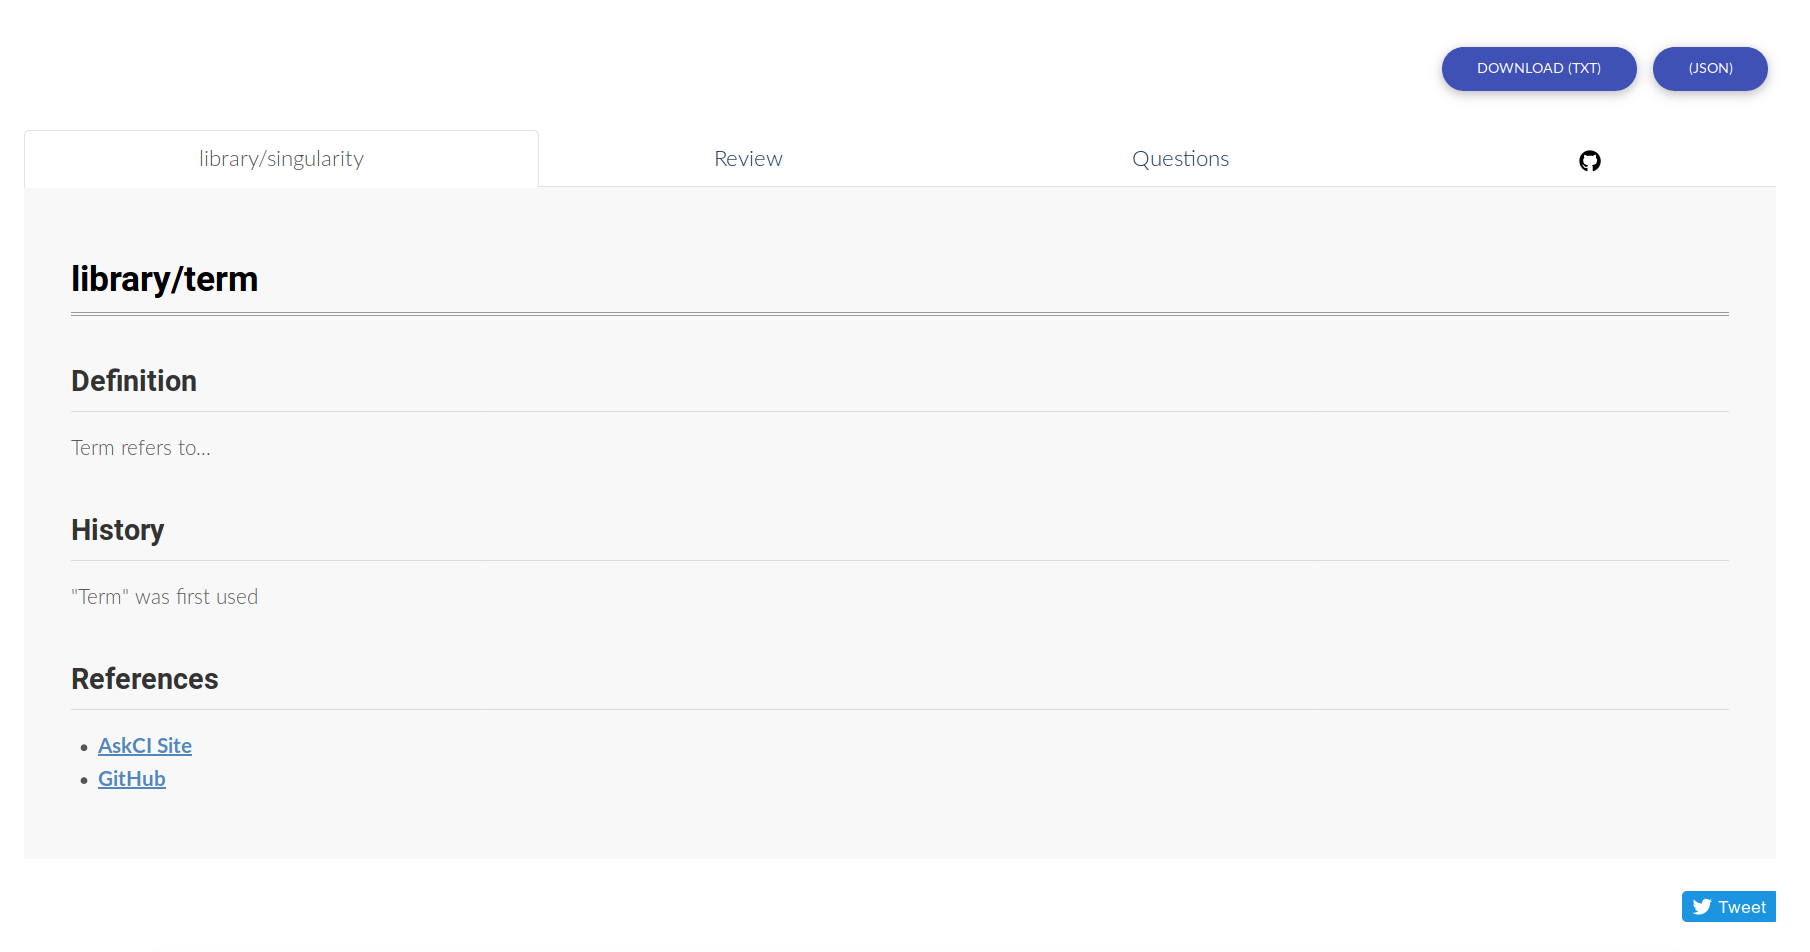
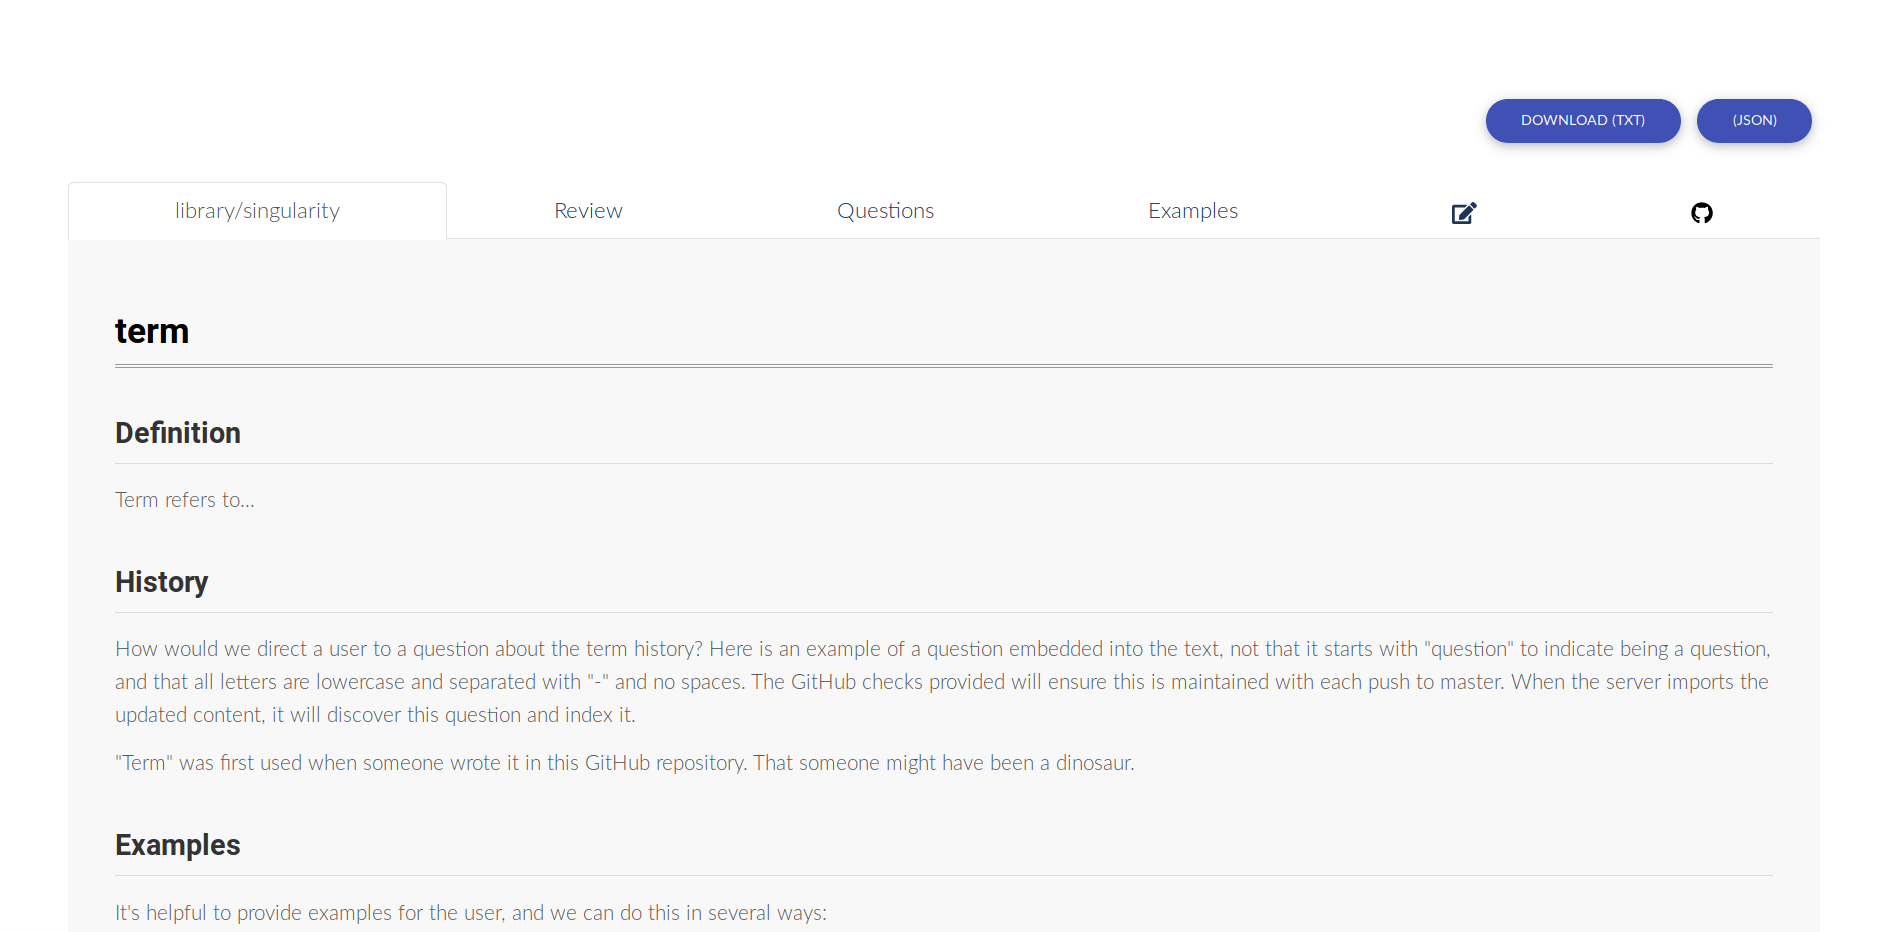
adding examples to model, and rendered in article page

diff --git a/askci/apps/main/templates/articles/article_details.html b/askci/apps/main/templates/articles/article_details.html
@@ -64,6 +64,7 @@ body {
                 <a class="nav-item nav-link active" id="nav-details-tab" data-toggle="tab" href="#nav-details" role="tab" aria-controls="nav-details" aria-selected="true">{{ instance.namespace }}/{{ instance.name }}</a>
                 {% if instance.pullrequest_set.count > 0 %}<a class="nav-item nav-link" id="nav-review-tab" data-toggle="tab" href="#nav-review" role="tab" aria-controls="nav-review" aria-selected="true">Review</a>{% endif %}
                 {% if instance.question_set.count > 0 %}<a class="nav-item nav-link" id="nav-questions-tab" data-toggle="tab" href="#nav-questions" role="tab" aria-controls="nav-questions" aria-selected="true">Questions</a>{% endif %}
+                {% if instance.example_set.count > 0 %}<a class="nav-item nav-link" id="nav-examples-tab" data-toggle="tab" href="#nav-examples" role="tab" aria-controls="nav-examples" aria-selected="true">Examples</a>{% endif %}
                 {% if request.user.has_github_create %}<a class="nav-item nav-link" id="nav-edit-tab" data-toggle="tab" href="#nav-edit" role="tab" aria-controls="nav-edit" aria-selected="true"><i class="fas fa-edit"></i></a>{% endif %}
                 <a class="nav-item nav-link" id="nav-github-tab" target="_blank" href="https://github.com/{{ instance.repo.full_name }}" role="tab" aria-controls="nav-github" aria-selected="true"><i style="color:black" class="fab fa-github"></i></a>
             </div>
@@ -100,6 +101,7 @@ body {
                    </div>
                  </div>{% endfor %}
             </div>{% endif %}
+
             {% if instance.question_set.count > 0 %}
             <div class="tab-pane fade" id="nav-questions" 
                  style="margin-top:20px"
@@ -108,12 +110,28 @@ body {
                    <div class="col-md-12">
                      <div class="card">
                        <div class="card-body">
-                          <strong><a class="question-link" href="#{{ question.text }}"> {{ question.pretty }}</a>
+                          <strong><a class="question-link" href="#{{ question.text }}"> {{ question.pretty }}</a></strong>
                        </div>
                      </div>
                    </div>
                  </div>{% endfor %}
             </div>{% endif %}
+
+            {% if instance.example_set.count > 0 %}
+            <div class="tab-pane fade" id="nav-examples" 
+                 style="margin-top:20px"
+                 role="tabpanel" aria-labelledby="nav-examples-tab">
+                 {% for example in instance.example_set.all %}<div class="row">
+                   <div class="col-md-12">
+                     <div class="card">
+                       <div class="card-body">
+                          <strong><a class="question-link" href="#{{ example.text }}"> {{ example.pretty }}</a></strong>
+                       </div>
+                     </div>
+                   </div>
+                 </div>{% endfor %}
+            </div>{% endif %}
+
         </div>
      </div>
   </div>

diff --git a/askci/apps/main/templates/examples/all.html b/askci/apps/main/templates/examples/all.html
@@ -1,0 +1,62 @@
+{% extends "base/page.html" %}
+{% load staticfiles %}
+{% block content %}
+
+<style type="text/css">
+ .loading {
+   background-color: #515ce6;
+ }
+</style>
+
+<div class="container" style='padding-top:100px'>
+<link rel="stylesheet" href="https://cdnjs.cloudflare.com/ajax/libs/Chart.js/2.8.0/Chart.min.css">
+  {% include "messages/message.html" %}
+
+  <div class="row" style="padding-bottom:50px">
+    <div class="col-md-12">
+      <a href="{% url 'new_article' %}"><button class="btn btn-primary">New Article</button></a>
+      <a href="{% url 'all_articles' %}"><button class="btn btn-primary">Articles</button></a>
+    </div>
+  </div>
+
+  <div class="infinite-container">
+      {% for example in examples %}
+      <div class="row">
+        <div class="col-md-12">
+          <div class="card">
+              <div class="card-body">
+                 <a href="{{ example.article.get_absolute_url }}"><strong>{{ example.article.name }}</strong></a> {{ example.article.summary | truncatechars:200 }} {% if example.article.summary|length > 200 %}...{% endif %}<a style="float:right" href="{{ example.article.get_absolute_url }}">Read more...</a><br><hr>
+                 <code>{{ example.code2html | safe }}</code>
+              </div>
+           </div>
+          </div>
+      </div>{% endfor %}
+  </div>
+
+  {% if examples.has_next %}
+    <a class="infinite-more-link" href="?page={{ questions.next_page_number }}">More</a>
+  {% endif %}
+
+  <div class="loading" style="display: none;">
+    Loading...
+  </div>
+
+</div>
+{% endblock %}
+{% block pagescripts %}
+<script src="{% static 'js/jquery.waypoints.min.js' %}"></script>
+<script src="{% static 'js/infinite.min.js' %}"></script>
+<script>
+$(document).ready(function() {
+ var infinite = new Waypoint.Infinite({
+      element: $('.infinite-container')[0],
+      onBeforePageLoad: function () {
+        $('.loading').show();
+      },
+      onAfterPageLoad: function ($items) {
+        $('.loading').hide();
+      }
+  });
+});
+</script>
+{% endblock %}

diff --git a/askci/apps/base/templates/base/page.html b/askci/apps/base/templates/base/page.html
@@ -31,12 +31,12 @@
           </form>
         <li class="nav-item dropdown">
           <a class="nav-link dropdown-toggle" href="#" id="TermsDropdown" role="button" data-toggle="dropdown" aria-haspopup="true" aria-expanded="false">
-            Articles
+            Browse
         </a>
           <div class="dropdown-menu dropdown-menu-right" aria-labelledby="TermsDropdown">
-            <a class="dropdown-item" href="{% url 'all_articles' %}">Browse</a>
-            <a class="dropdown-item" href="{% url 'new_article' %}">Create</a>
-            <a class="dropdown-item" href="{% url 'search' %}">Search</a>
+            <a class="dropdown-item" href="{% url 'all_articles' %}">Articles</a>
+            <a class="dropdown-item" href="{% url 'index' %}">Questions</a>
+            <a class="dropdown-item" href="{% url 'all_examples' %}">Examples</a>
             <a class="dropdown-item" href="{% url 'export' %}">Export</a>
           </div>
          </li>

diff --git a/askci/apps/main/models.py b/askci/apps/main/models.py
@@ -19,8 +19,10 @@ import time
 
 
 class TemplateRepository(models.Model):
-    """a template repository must be a template, and serves to provide a starter
-       template for creating a documentation file to update the server. The
+    """a template repository serves to provide a starter
+       template for creating a documentation file to update the server. 
+       Note that it isn't actually a GitHub template - we fork it to ensure
+       that the child repository can be updated from the upstream. The
        repository should minimally have a README.md and a testing setup
        to validate tags. See https://github.com/hpsee/askci-template-term.
     """
@@ -88,7 +90,7 @@ class Question(models.Model):
     uuid = models.UUIDField(primary_key=True, default=uuid.uuid4, editable=False)
     created = models.DateTimeField("date created", auto_now_add=True)
     modified = models.DateTimeField("date modified", auto_now=True)
-    text = models.TextField(blank=False, null=False, unique=True)
+    text = models.TextField(blank=False, null=False)
     article = models.ForeignKey(
         "Article", on_delete=models.CASCADE, blank=True, null=True
     )
@@ -118,13 +120,74 @@ class Question(models.Model):
         return "%s?" % " ".join(pairs).strip()
 
     def get_absolute_url(self):
-        return reverse("tag_details", args=[self.uuid])
+        return "%s#%s" % (
+            reverse("article_details", args=[self.article.name]),
+            self.text,
+        )
 
     def get_label(self):
         return "question"
 
     class Meta:
         app_label = "main"
+        unique_together = ["article", "text"]
+
+
+class Example(models.Model):
+    """An example corresponds to a block of code to illustrate an idea.
+       If a language is provided or detected, we include it. 
+    """
+
+    uuid = models.UUIDField(primary_key=True, default=uuid.uuid4, editable=False)
+    created = models.DateTimeField("date created", auto_now_add=True)
+    modified = models.DateTimeField("date modified", auto_now=True)
+    text = models.TextField(blank=False, null=False)
+    code = models.TextField(blank=False, null=False)
+    article = models.ForeignKey(
+        "Article", on_delete=models.CASCADE, blank=True, null=True
+    )
+
+    def __str__(self):
+        return "<Example:%s>" % self.text
+
+    def __repr__(self):
+        return self.__str__()
+
+    def code2html(self):
+        """render code to html, usually for a front end view. 
+        """
+        return markdown.markdown(self.code)
+
+    @property
+    def pretty(self):
+        """pretty print a question, replacing - with spaces and uppercasing
+           each letter of a sentence.
+        """
+        sentences = self.text.replace("-", " ")
+
+        # Get rid of question prefix
+        sentences = re.sub("^example", "", sentences)
+
+        # Pairs of sentences and ending punctuation.
+        pairs = [t for t in re.split("(\.|\!|\?)", sentences) if t]
+        pairs = [
+            " %s" % p.strip().capitalize() if p not in ["!", ".", "?"] else p
+            for p in pairs
+        ]
+        return " ".join(pairs).strip()
+
+    def get_absolute_url(self):
+        return "%s#%s" % (
+            reverse("article_details", args=[self.article.name]),
+            self.text,
+        )
+
+    def get_label(self):
+        return "example"
+
+    class Meta:
+        app_label = "main"
+        unique_together = ["article", "text"]
 
 
 class Article(models.Model):

diff --git a/askci/apps/main/tasks.py b/askci/apps/main/tasks.py
@@ -9,15 +9,30 @@ with this file, You can obtain one at http://mozilla.org/MPL/2.0/.
 """
 
 from django.conf import settings
-from askci.apps.main.models import Article, Question
+from askci.apps.main.models import Article, Question, Example
 
 from bs4 import BeautifulSoup
+from itertools import chain
 
 import markdown
 import os
 import re
 import requests
 import sys
+
+
+def remove_language(code):
+    """if the code starts with a single term on the first line, assume it's
+       a language and remove it. We will need to test this to see if it works
+       in practice.
+    """
+    lines = code.split("\n")
+    if len(lines) > 1:
+        words = lines[0].split(" ")
+        if len(words) == 1:
+            lines = lines[1:]
+            code = "\n".join(lines)
+    return code
 
 
 def update_article(article_uuid):
@@ -41,12 +56,13 @@ def update_article(article_uuid):
     soup = BeautifulSoup(html, "lxml")
 
     # Supported span prefixes
-    prefixes = ["question"]
+    prefixes = ["question", "example"]
     prefix_regex = "^(%s)" % "|".join(prefixes)
 
     # Keep link to previous questions (and empty article)
-    previous = article.question_set.all()
+    previous = list(chain(article.question_set.all(), article.example_set.all()))
     article.question_set.clear()
+    article.example_set.clear()
     [p.delete() for p in previous]
 
     # Add correctly formatted spans (this is same as testing in repository)
@@ -66,8 +82,20 @@ def update_article(article_uuid):
             continue
 
         # If the question is valid, get or create
-        question, created = Question.objects.get_or_create(text=identifier)
-        article.question_set.add(question)
+        if "question" in identifier:
+            question, created = Question.objects.get_or_create(text=identifier)
+            article.question_set.add(question)
+
+        # Examples are added only if found following code section
+        else:
+            code = span.find_next("code")
+            if code:
+                cleaned = remove_language(code.text)
+                code.string.replace_with(cleaned)
+                example, created = Example.objects.get_or_create(
+                    text=identifier, code=cleaned
+                )
+                article.example_set.add(example)
 
     article.text = content
     article.save()

diff --git a/askci/apps/main/views/examples.py b/askci/apps/main/views/examples.py
@@ -1,0 +1,28 @@
+"""
+
+Copyright (C) 2019-2020 Vanessa Sochat.
+
+This Source Code Form is subject to the terms of the
+Mozilla Public License, v. 2.0. If a copy of the MPL was not distributed
+with this file, You can obtain one at http://mozilla.org/MPL/2.0/.
+
+"""
+
+from django.shortcuts import render
+from ratelimit.decorators import ratelimit
+
+from askci.apps.main.models import Example
+from askci.apps.main.utils import get_paginated
+from askci.settings import VIEW_RATE_LIMIT as rl_rate, VIEW_RATE_LIMIT_BLOCK as rl_block
+
+import os
+import uuid
+
+
+@ratelimit(key="ip", rate=rl_rate, block=rl_block)
+def all_examples(request):
+    """Show all examples, ordered by most recent
+    """
+    example_set = Example.objects.order_by("-modified")
+    examples = get_paginated(request, example_set)
+    return render(request, "examples/all.html", {"examples": examples})

diff --git a/askci/apps/main/views/articles.py b/askci/apps/main/views/articles.py
@@ -33,9 +33,8 @@ import uuid
 
 @ratelimit(key="ip", rate=rl_rate, block=rl_block)
 def all_articles(request):
-    """Show all articles.
+    """Show all articles, with most recently modified first
     """
-    # Show most recently modified first (will need to limit at some point)
     article_set = Article.objects.order_by("-modified")
     articles = get_paginated(request, article_set)
     return render(request, "articles/all.html", {"articles": articles})

diff --git a/askci/apps/main/urls.py b/askci/apps/main/urls.py
@@ -13,6 +13,7 @@ import askci.apps.main.views as views
 
 urlpatterns = [
     url(r"^articles/?$", views.all_articles, name="all_articles"),
+    url(r"^examples/?$", views.all_examples, name="all_examples"),
     url(r"^export/?$", views.export, name="export"),
     url(r"^e/article/(?P<name>.+)/?$", views.article_details, name="article_details"),
     url(r"^e/tag/(?P<tag>.+)/?$", views.tag_details, name="tag_details"),

diff --git a/askci/apps/main/views/__init__.py b/askci/apps/main/views/__init__.py
@@ -1,4 +1,5 @@
 from .articles import new_article, article_details, all_articles
+from .examples import all_examples
 from .download import (
     download_articles_json,
     download_repos_csv,

diff --git a/docs/_docs/development/index.md b/docs/_docs/development/index.md
@@ -134,6 +134,21 @@ To remove the images:
 ./askci.sh rm_dev
 ```
 
+You can also easily use docker-compose directly, which will work from any subfolder:
+
+```bash
+docker-compose restart uwsgi
+docker-compose stop
+docker-compose rm
+```
+
+or use the Makefile to run the linted (required [black](https://black.readthedocs.io/en/stable/)). It skips over migration
+folders.
+
+```bash
+make lint
+```
+
 ## Custom Build
 
 The docker-compose will build the container automatically,

diff --git a/docs/_docs/getting-started/index.md b/docs/_docs/getting-started/index.md
@@ -68,7 +68,7 @@ quickly see an answer.
 
 ### Examples
 
-This same logic will work for an "examples" tab (not yet implemented) that can return snippets
+This same logic works for an "examples" tab that can return snippets
 of code for the user to see an example for.
 
 ## Logging In
